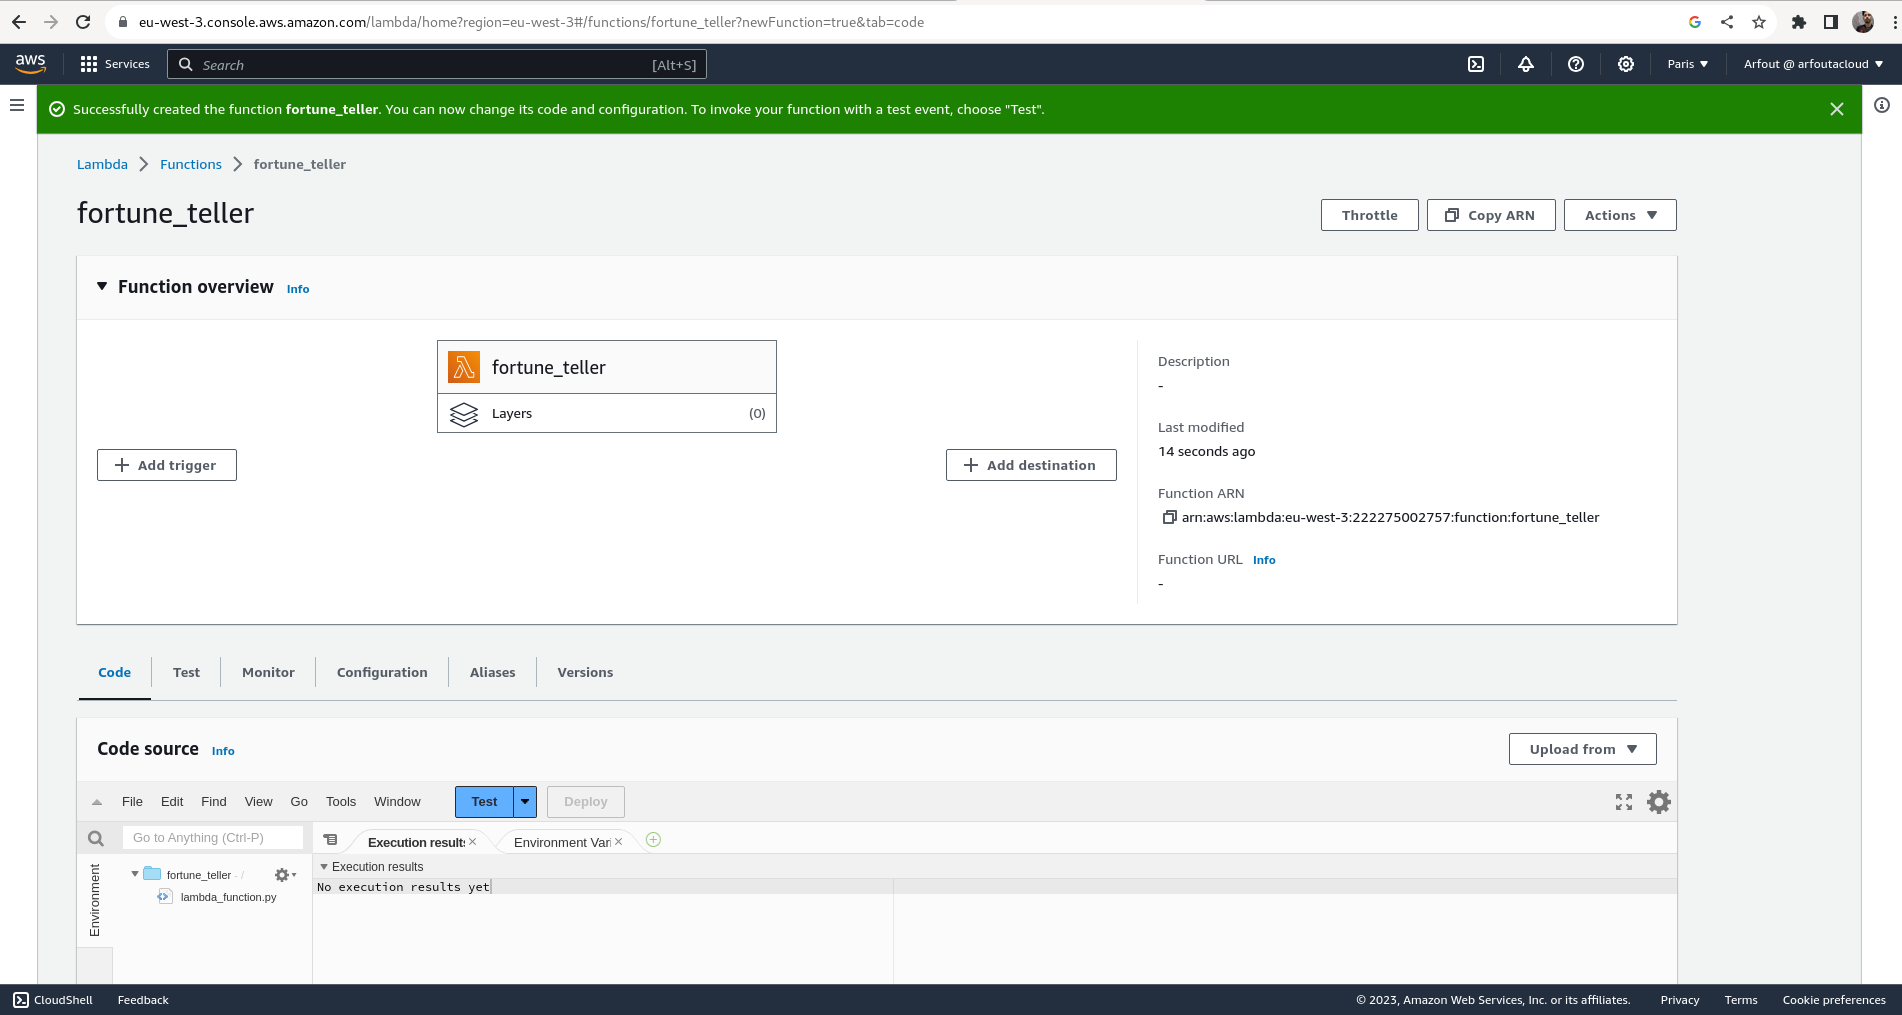
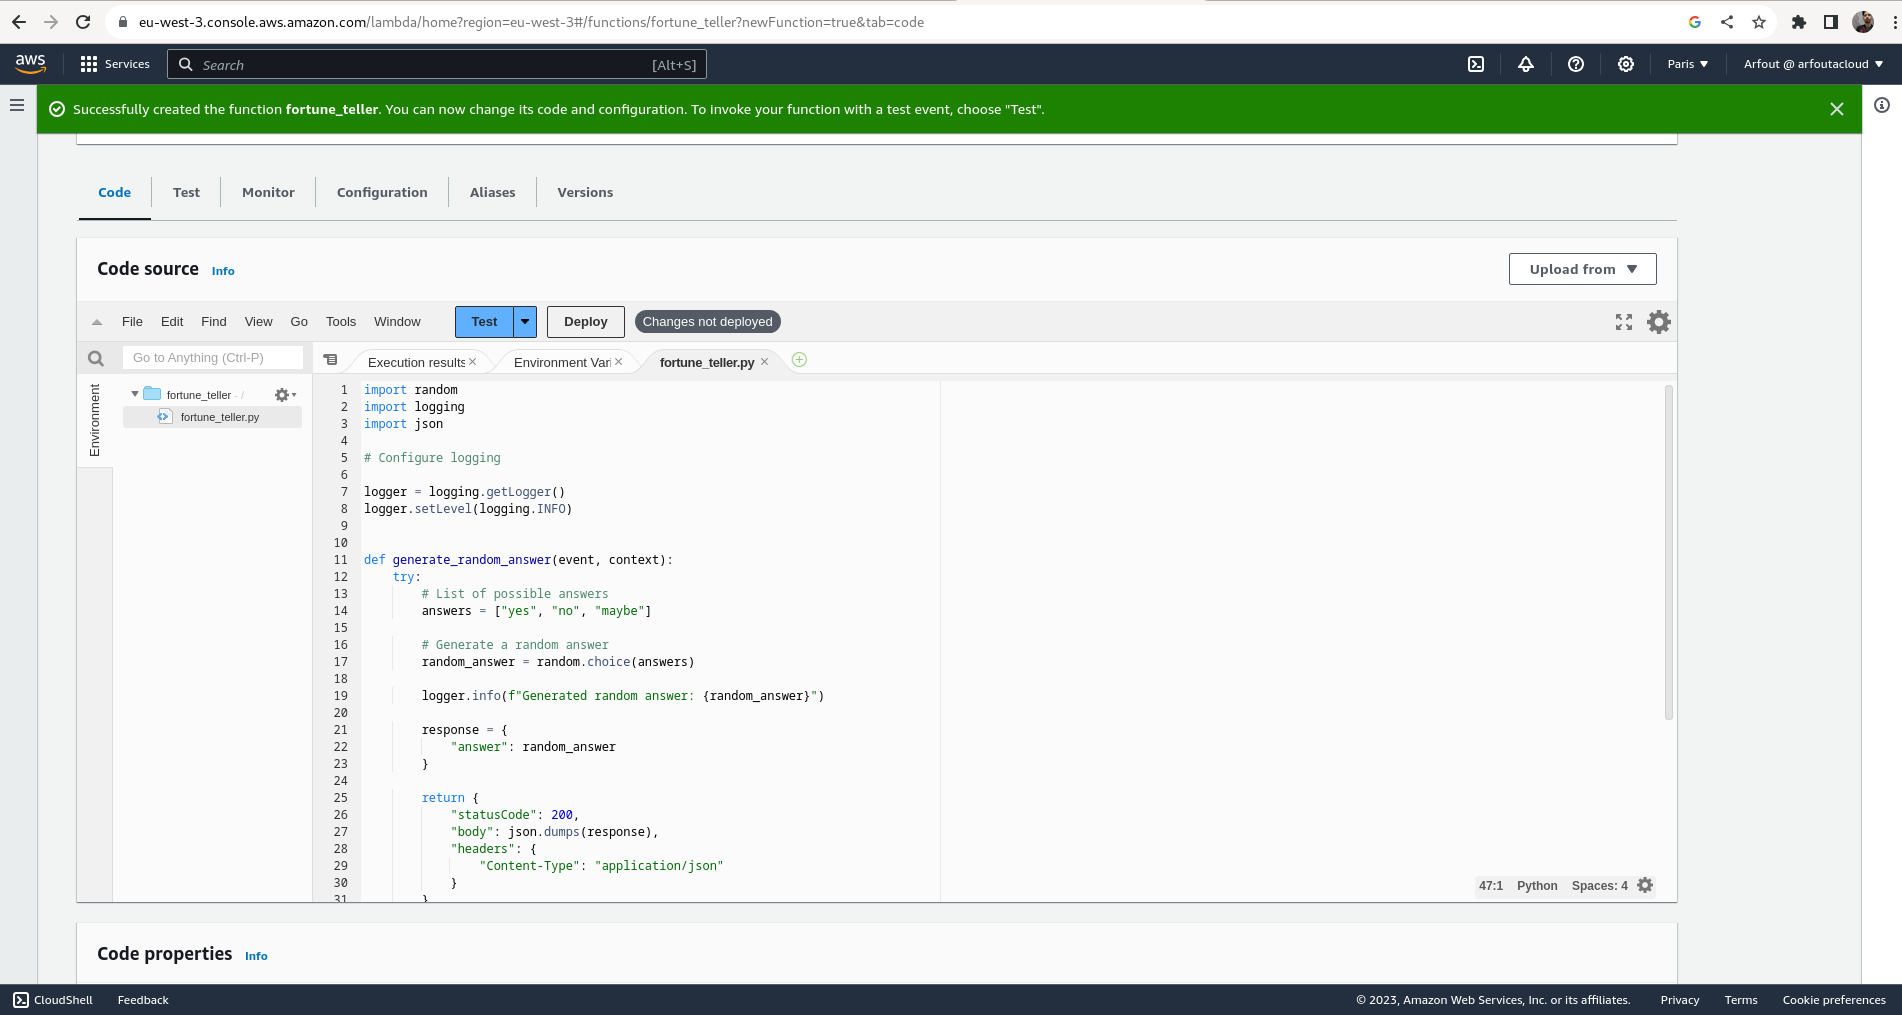
lambda creation steps

diff --git a/README.md b/README.md
@@ -27,5 +27,23 @@ It provides a comprehensive example of **building**, **testing**, and **deployin
 ![](./screenshots/lambda/lambda_step1.png)
 
 
+- **Step 2 :**  Choose Name and Runtime Environment 
+
+![](./screenshots/lambda/lambda_step2.png)
 
 
+- **Step 3 :**  Optional : Rename "lambda_function" file to fortune_teller 
+
+![](./screenshots/lambda/lambda_step3.png)
+
+- **Step 4 :**  Copy and Paste the Function Code into the Code Box and Click Deploy
+
+![](./screenshots/lambda/lambda_step4.png)
+
+- **Step 5 :**  Change the Runtime settings
+
+![](./screenshots/lambda/lambda_step5.png)
+
+- **Step 6 :**  Test the lambda function
+
+![](./screenshots/lambda/lambda_step6.png)
